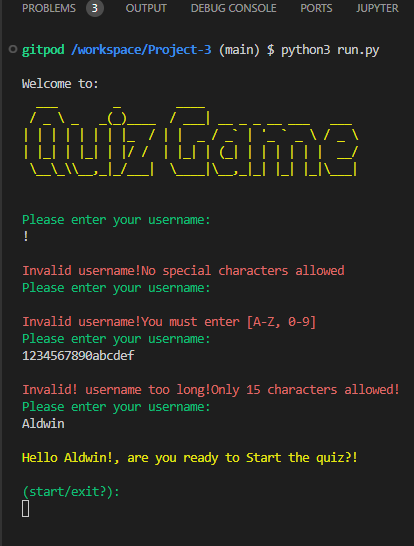
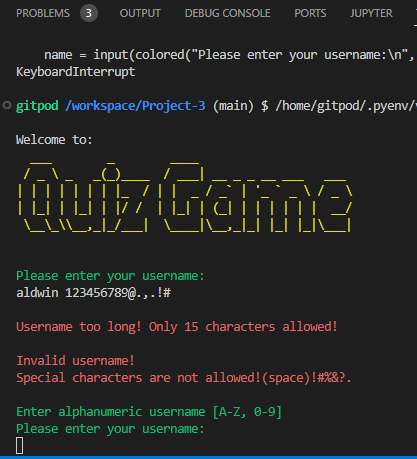
in data lowercase the variable. at readme update the img of username input and its comments, at run add docstring to import module,uppercase snake_case the constant variable, nest ascii_art to initialize_game function, change the condition of username input

diff --git a/run.py b/run.py
@@ -2,44 +2,51 @@
 """
 get access to code from another module by
 importing the file/function using import.
+
+ - time sleep function is used to add delay in the execution of a program.
+ - sys used to manipulate different parts of the Python runtime environment.
+ - pyfiglet takes ASCII text and renders it in ASCII art fonts.
+ - termcolor module for Color formatting for output in the terminal.
+ -  make code in one module available in another.
 """
-import re
 import time
 import sys
 from pyfiglet import figlet_format
 from termcolor import colored
-from data import QUESTIONS
+from data import questions
 
 QUESTION_INDEX = 0
-SCORE = 0
-
-print()
-print('Welcome to:')
-
-ascii_art = figlet_format("Quiz Game")
-colored_ascii = colored(ascii_art, "yellow")
-print(colored_ascii)
-
-time.sleep(.1)
+PLAYER_SCORE = 0
 
 
 def initialize_game():
 
+    print()
+    print('Welcome to:')
+
+    ascii_art = figlet_format("Quiz Game")
+    colored_ascii = colored(ascii_art, "yellow")
+    print(colored_ascii)
+
+    time.sleep(.1)
+
     while True:
         name = input(colored("Please enter your username:\n", "green"))
-        if not re.match("^[a-z, A-Z, 0-9]*$", name):
-            print()
-            print(colored("Invalid username!"
-                          "No special characters allowed", "red"))
-        elif len(name) > 15:
-            print()
-            print(colored("Invalid! username too long!"
-                          "Only 15 characters allowed!", "red"))
-        elif name.strip() == '':
-            print(colored("Invalid username!"
-                          "You must enter [A-Z, 0-9]", "red"))
-        else:
+        if name.isalnum():
             break
+
+        if len(name) > 15:
+            print()
+            print(colored("Username too long! "
+                          "Only 15 characters allowed!", "red"))
+
+        print()
+        print(colored("Invalid username!\n"
+                      "Special characters are not allowed!(space)!#%&?.",
+                      "red"))
+        print()
+        print(colored("Enter alphanumeric username [A-Z, 0-9]", "green"))
+
     while True:
         time.sleep(.1)
         print()
@@ -112,8 +119,8 @@ def check_user_answer(answer, correct_answer):
     is correct answer
     """
     if answer is correct_answer:
-        global SCORE
-        SCORE += 1
+        global PLAYER_SCORE
+        PLAYER_SCORE += 1
         return True
     if answer != correct_answer:
         return False
@@ -130,7 +137,7 @@ def display_question_result(question_result, correct_answer):
         time.sleep(0.3)
         print(colored("Correct!", "blue"))
         time.sleep(.1)
-        print(colored(f"Your current score is {SCORE}.", "yellow"))
+        print(colored(f"Your current score is {PLAYER_SCORE}.", "yellow"))
     else:
         time.sleep(.1)
         print("--------------------------------------------------------------")
@@ -140,7 +147,7 @@ def display_question_result(question_result, correct_answer):
         print(colored(f"The correct answer is {correct_answer}.", "blue"))
         time.sleep(.1)
         print("--------------------------------------------------------------")
-        print(colored(f"Your current score is {SCORE}.", "yellow"))
+        print(colored(f"Your current score is {PLAYER_SCORE}.", "yellow"))
     global QUESTION_INDEX
     QUESTION_INDEX += 1
 
@@ -149,7 +156,7 @@ def check_and_display_final_score():
     """If all the question is answered
     display the total score of the user
     """
-    total_of_questions = len(QUESTIONS)
+    total_of_questions = len(questions)
     if QUESTION_INDEX == total_of_questions:
         time.sleep(.1)
         print("--------------------------------------------------------------")
@@ -161,7 +168,7 @@ def check_and_display_final_score():
         print()
         time.sleep(.1)
         print()
-        print(colored(f"Final score: {SCORE} / {total_of_questions}",
+        print(colored(f"Final score: {PLAYER_SCORE} / {total_of_questions}",
                       "yellow"))
         time.sleep(1.5)
         print()
@@ -177,8 +184,8 @@ def play_again():
     quiz_again = quiz_again.upper()
 
     if quiz_again == "YES":
-        global SCORE
-        SCORE = 0
+        global PLAYER_SCORE
+        PLAYER_SCORE = 0
         global QUESTION_INDEX
         QUESTION_INDEX = 0
         return True
@@ -189,7 +196,7 @@ def main():
     """
     Create loop for all the function above
     """
-    for question in QUESTIONS:
+    for question in questions:
         display_question(question)
         answer = ask_user_option()
         correct_answer = question["correct_option"]

diff --git a/data.py b/data.py
@@ -1,4 +1,4 @@
-QUESTIONS = [
+questions = [
     {
         "question": "In which Italian city can you find the Colosseum?",
         "options": "1. Venice\n2. Rome\n3. Naples\n4. Milan",

diff --git a/README.md b/README.md
@@ -52,7 +52,6 @@ As a user:
 
        - User are not allowed to use Special Characters.
        - User are not allowed to have a more than 15 Characters.
-       - User should input a username, blank name is not allowed.
 
 
 ### Play game options
